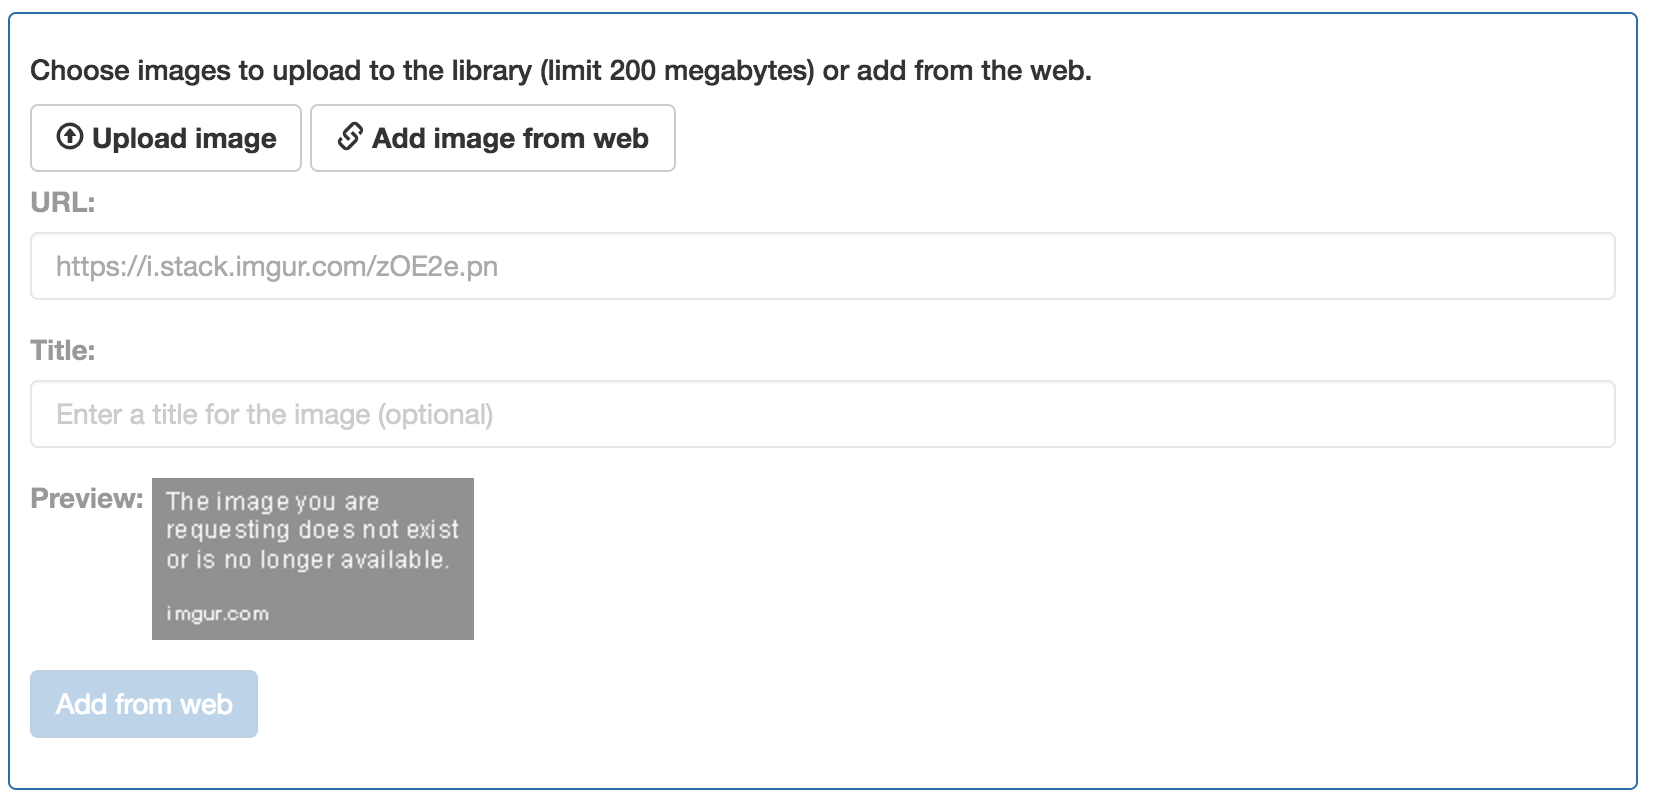
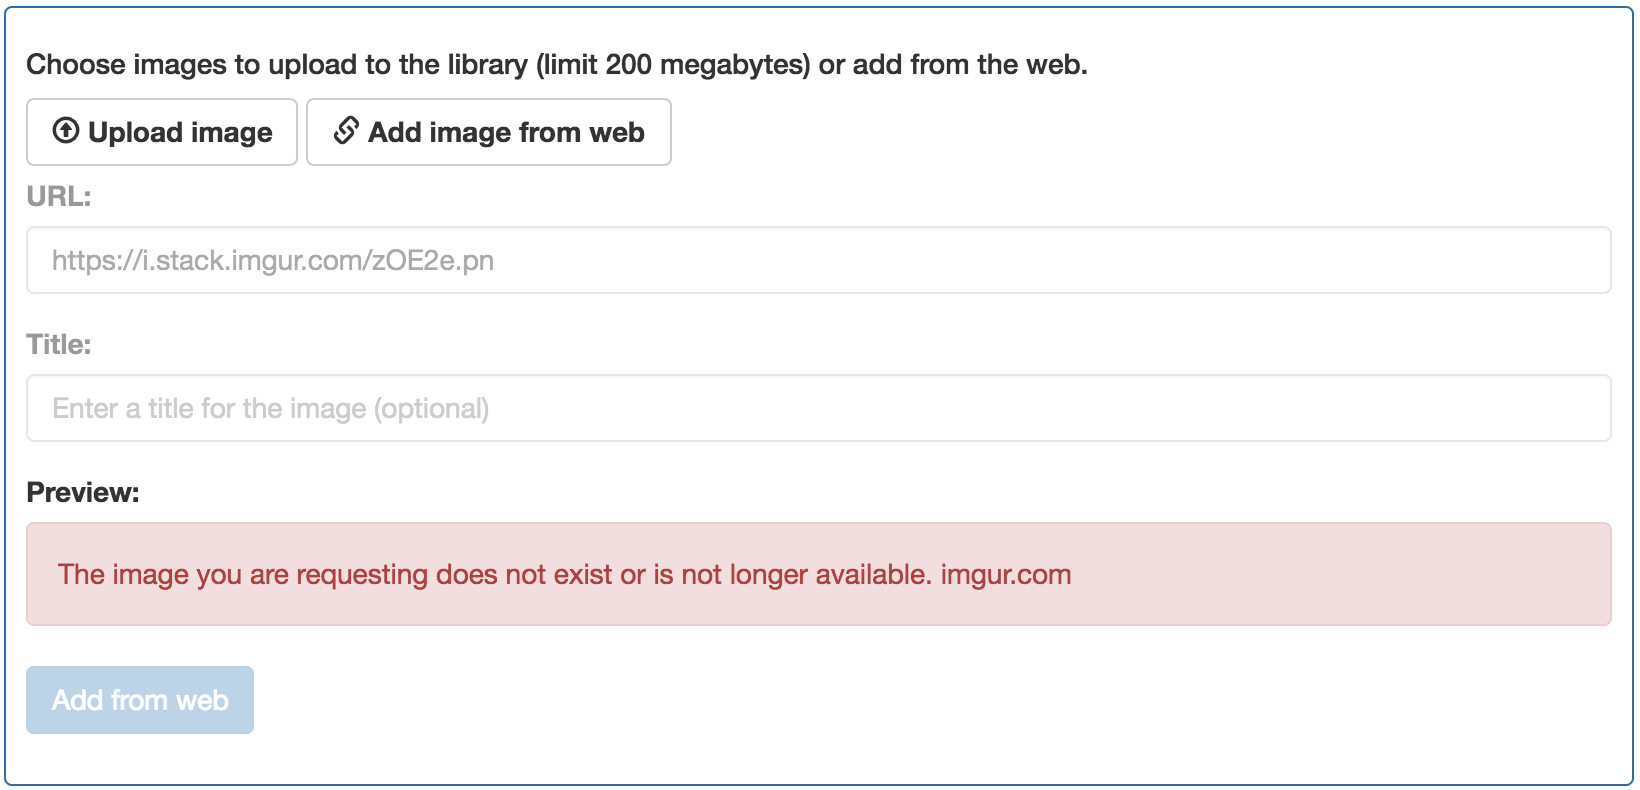
ATGU-581_MediaManagerAddImageWebWarning - screen capture and UI code of proposed interface

Changed region(s): [[0.0, 0.0, 1.0, 1.0], [0.0, 0.0608, 0.653, 0.4557], [0.0, 0.4861, 0.2177, 0.5468]]

diff --git a/ATGU-581_MediaManagerAddImageWebWarning/index.html b/ATGU-581_MediaManagerAddImageWebWarning/index.html
@@ -1,6 +1,10 @@
-
-<div class="form-group ng-scope" ng-if="wc.webimage.url != ''" style="">
+<!--UI comment - removing the opacity-->
+<div class="form-group ng-scope" ng-if="wc.webimage.url != ''" style="opacity: 1">
     <label for="webimagepreview" class="preview">Preview:</label>
-    <img id="webimagepreview" class="preview" ng-src="https://i.stack.imgur.com/zOE2e.pn"
-       src="https://i.stack.imgur.com/zOE2e.pn">
+    <!--<img id="webimagepreview" class="preview" ng-src="https://i.stack.imgur.com/zOE2e.pn"-->
+       <!--src="https://i.stack.imgur.com/zOE2e.pn">-->
+<!--UI comment - Showing the warning in a Bootstrap alert-->
+    <div class="alert alert-danger" role="alert">
+        The image you are requesting does not exist or is not longer available. imgur.com
+    </div>
 </div>
